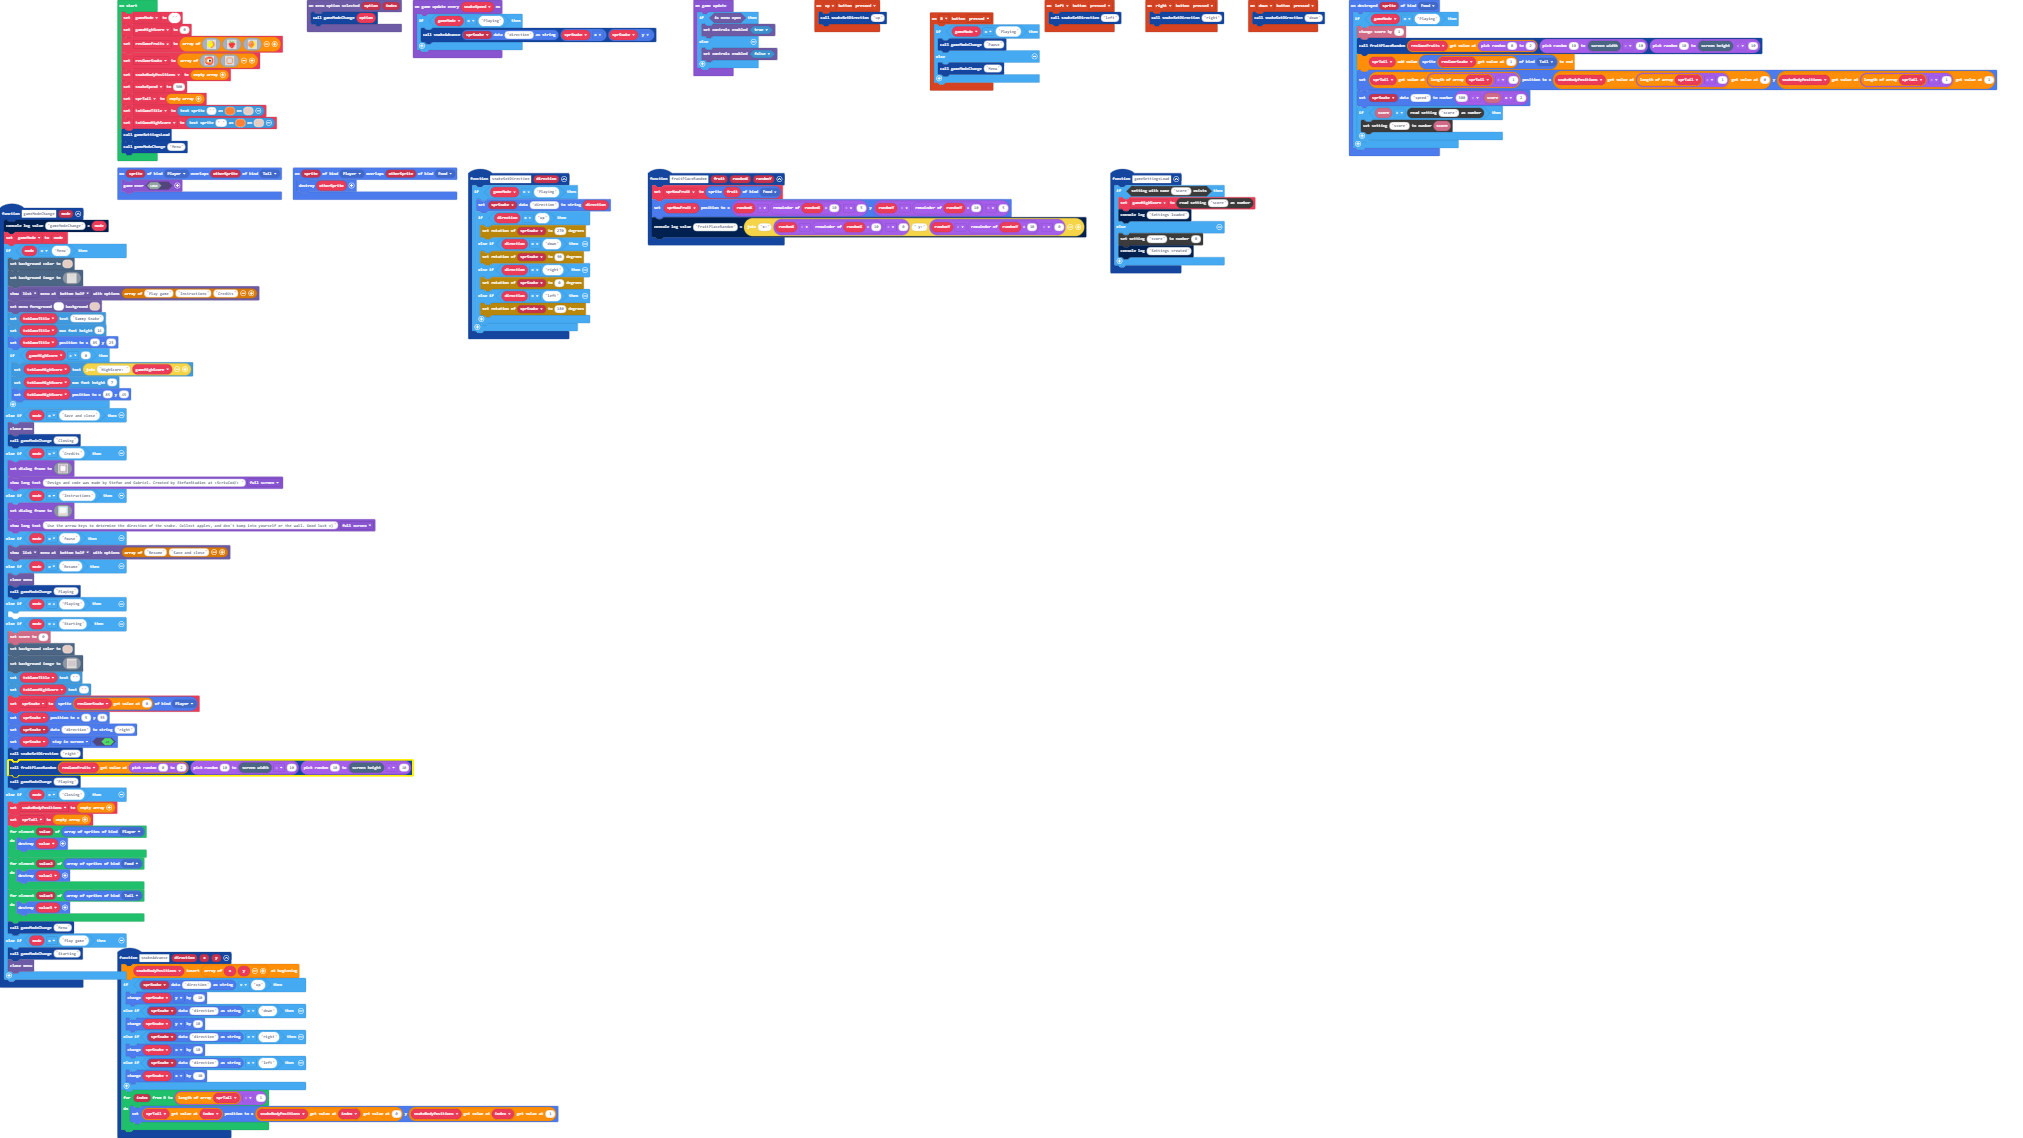
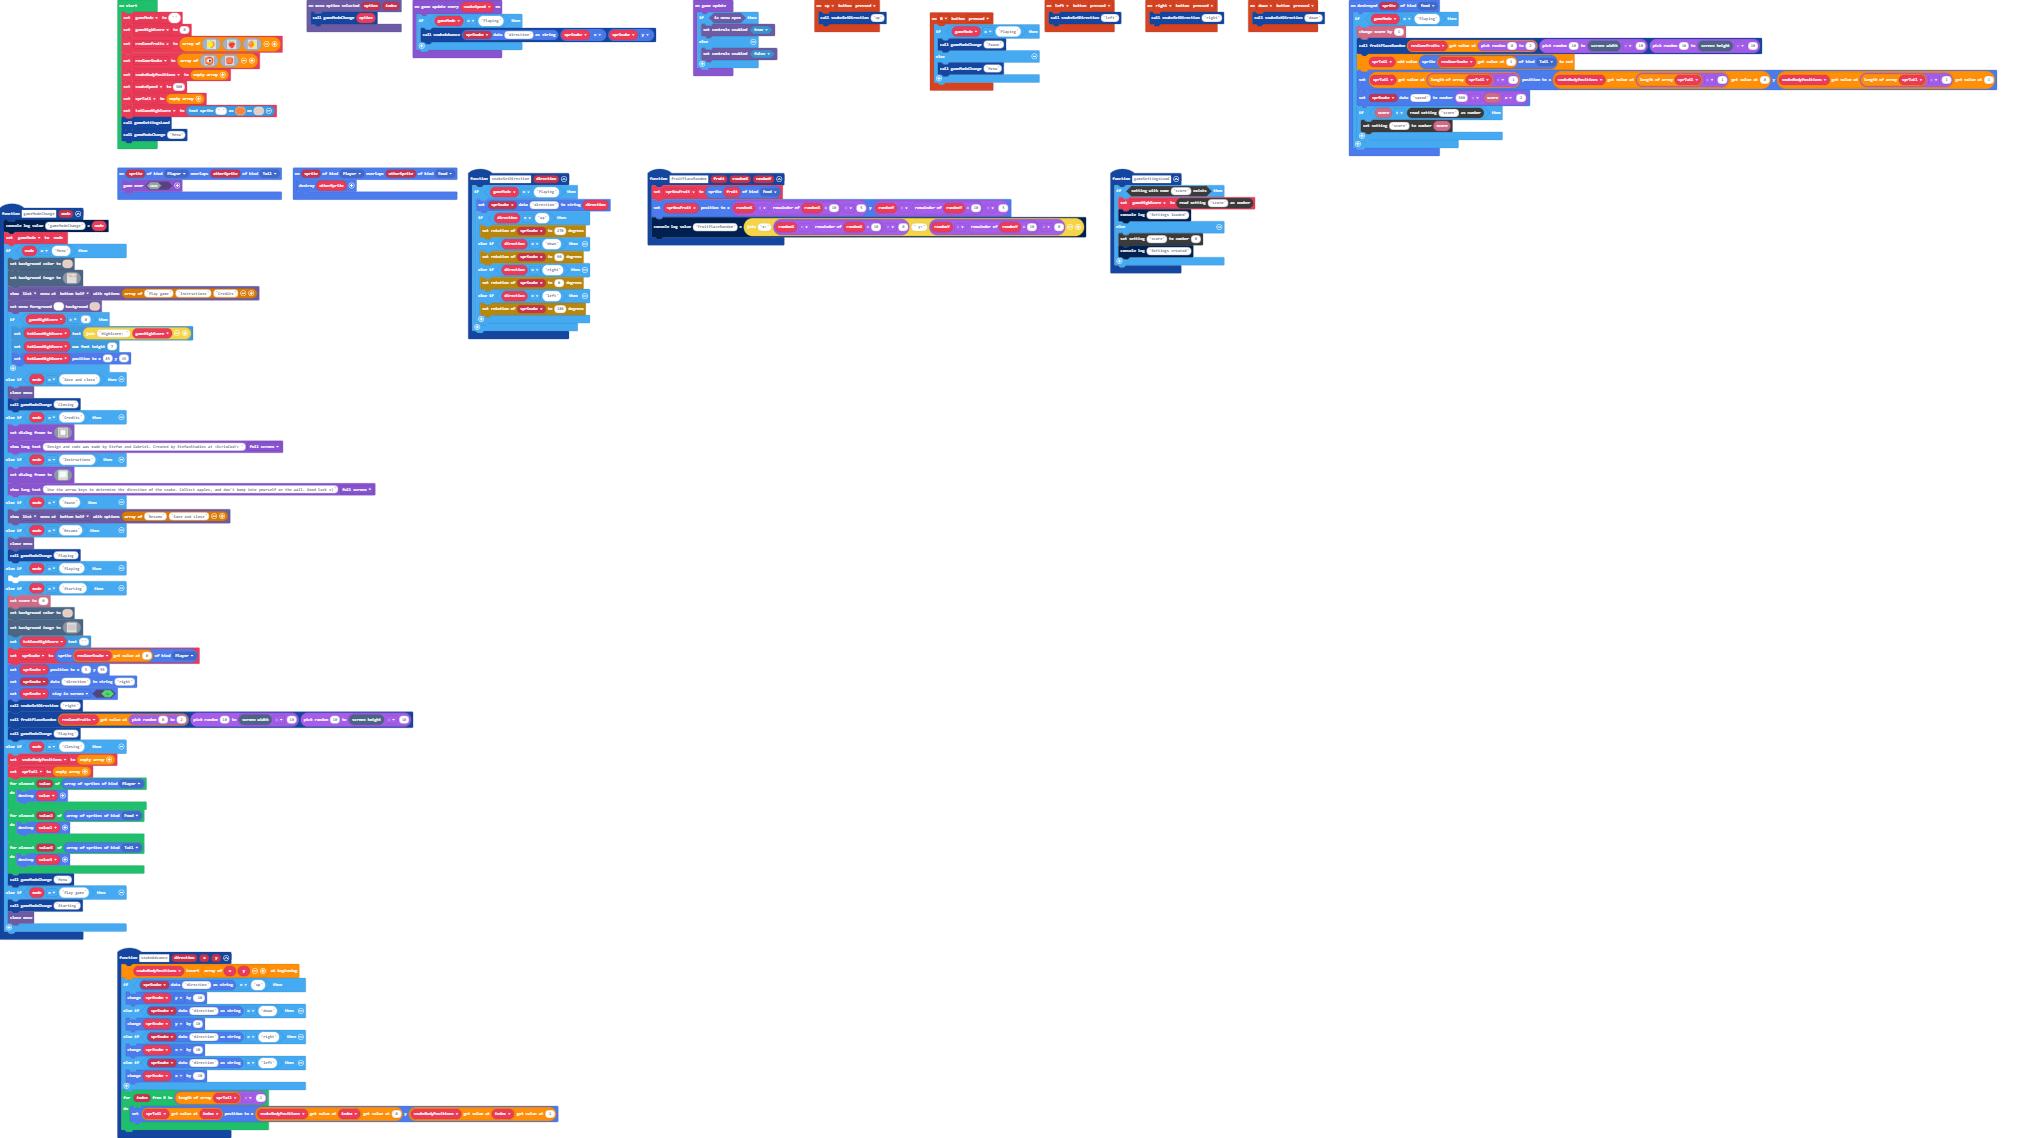
Made graphic better

Changed region(s): [[0.0, 0.2768, 0.218, 0.8919], [0.0623, 0.0923, 0.1557, 0.1538]]

diff --git a/main.ts b/main.ts
@@ -63,43 +63,43 @@ function gameModeChange (mode: string) {
     if (mode == "Menu") {
         scene.setBackgroundColor(13)
         scene.setBackgroundImage(img`
-            ................................................................................................................................................................
-            ................................................................................................................................................................
-            ................................................................................................................................................................
-            ................................................................................................................................................................
-            ................................................................................................................................................................
-            ............................................................................................................22222...............................................
-            ..........................................................................................................22444442..............................................
-            ..........................................44444...44444...44444...44444...44444...44444...44444...44444..2444444442.............................................
-            ..........................................4...4...4...4...4...4...4...4...4...4...4...4...4...4...4...4..4441111142.............................................
-            ..........................................4...4...4...4...4...4...4...4...4...4...4...4...4...4...4...4..44111ff142.............................................
-            ..........................................4...4...4...4...4...4...4...4...4...4...4...4...4...4...4...4..44111ff142.............................................
-            ..........................................4...4...4...4...4...4...4...4...4...4...4...4...4...4...4...4..4441111142.............................................
-            ..........................................44444...44444...44444...44444...44444...44444...44444...44444..2444444442.............................................
-            ..........................................................................................................22444442..............................................
-            ............................................................................................................22222...............................................
-            ................................................................................................................................................................
-            ................................................................................................................................................................
-            ................................................................................................................................................................
-            ................................................................................................................................................................
-            ................................................................................................................................................................
-            ................................................................................................................................................................
-            ................................................................................................................................................................
-            ................................................................................................................................................................
-            .........................................................................................................................................3......................
-            ................................................................................................................................................................
-            ................................................................................................................................................................
-            ................................................................................................................................................................
-            ................................................................................................................................................................
-            ................................................................................................................................................................
-            ................................................................................................................................................................
-            ................................................................................................................................................................
-            ................................................................................................................................................................
-            ................................................................................................................................................................
-            ................................................................................................................................................................
-            ................................................................................................................................................................
-            ................................................................................................................................................................
-            ................................................................................................................................................................
+            ..........................................................................................................................244442................................
+            ..........................................................................................................................244442................................
+            .......444444444444.......................................................................................................244442................................
+            ........444444444444......................................................................................................222222................................
+            .....4.4444444444444....44444444.....4444.....44....4444.....44....444.....444..................................................................................
+            .....444444444444444.....44444444...4..444...4444..4..444...4444..4..44...44444...........................................222222................................
+            .....44444444444444...4.4444444444..4.4444...4444..4.4444...4444..4.4444.444444...........................................244442................................
+            .....444444...........444444...444..4444444.44444..4444444.44444...44444444444............................................244442................................
+            .....44444444444444...444444444444..4444444444444..4444444444444....444444444.............................................244442................................
+            .....444444444444444..444444444444..4444444444444..4444444444444.....4444444..............................................222222................................
+            ......44444444444444..444444444444..4444444444444..4444444444444......444444....................................................................................
+            .............4444444..444444...444..4444444444444..4444444444444......444444..............................................222222................................
+            ......44444444444444..444444...444..444444.4.4444..444444.4.4444......444444..............................................244442................................
+            .....444444444444444..444444...444..444444...4444..444444...4444......444444..............................................244442................................
+            .....444444444444444..444444...444..444444...4444..444444...4444......444444..............................................244442................................
+            .....44444444444444...444444...444..444444...4444..444444...4444......444444..............................................222222................................
+            ......444444444444.....4444.....4....4444.....44....4444.....44........4444.....................................................................................
+            ..........................................................................................................................22222.22222.22222.22222.22222.22222...
+            ..........................................................................................................................24442.24442.24442.24442.24442.24442...
+            .....................................444444444444.........................................................................24442.24442.24442.24442.24442.24442...
+            ......................................444444444444........................................................................24442.24442.24442.24442.24442.24442...
+            ...................................4.4444444444444...4444....44.....44444444.....4444....44...............................24442.24442.24442.24442.24442.24442...
+            ...................................444444444444444..4..444..4444.....44444444...4..444..4444...444444444..................22222.22222.22222.22222.22222.22222...
+            ...................................44444444444444...4.4444..4444..4.4444444444..4.4444.44444..4..44444444.......................................................
+            ...................................444444...........4444444.4444..444444...444..44444444444...4.44444444................................................222222..
+            ...................................44444444444444...444444444444..444444444444..4444444444....444444....................................................244442..
+            ...................................444444444444444..444444444444..444444444444..444444444.....4444444444................................................244442..
+            ....................................44444444444444..444444.44444..444444444444..4444444444....44444444444....................22222......................244442..
+            ...........................................4444444..444444..4444..444444...444..44444444444...4444444444....................24444422....................222222..
+            ....................................44444444444444..444444..4444..444444...444..444444444444..444444.......................2444444442.22222.22222.22222.........
+            ...................................444444444444444..444444..4444..444444...444..444444444444..4444444444...................2411111444.24442.24442.24442.222222..
+            ...................................444444444444444..444444..4444..444444...444..444444.44444..44444444444..................241ff11144.24442.24442.24442.244442..
+            ...................................44444444444444...444444..4444..444444...444..444444..4444..44444444444..................241ff11144.24442.24442.24442.244442..
+            ....................................444444444444.....4444....44....4444.....4....4444....44....444444444...................2411111444.24442.24442.24442.244442..
+            ...........................................................................................................................2444444442.22222.22222.22222.222222..
+            ............................................................................................................................24444422............................
+            .............................................................................................................................22222..............................
             ................................................................................................................................................................
             ................................................................................................................................................................
             ................................................................................................................................................................
@@ -186,9 +186,6 @@ function gameModeChange (mode: string) {
             `)
         blockMenu.showMenu(["Play game", "Instructions", "Credits"], MenuStyle.List, MenuLocation.BottomHalf)
         blockMenu.setColors(1, 13)
-        txtGameTitle.setText("Sammy Snake")
-        txtGameTitle.setMaxFontHeight(14)
-        txtGameTitle.setPosition(85, 25)
         if (gameHighScore > 0) {
             txtGameHighScore.setText("HighScore: " + gameHighScore)
             txtGameHighScore.setMaxFontHeight(7)
@@ -288,7 +285,6 @@ function gameModeChange (mode: string) {
         info.setScore(0)
         scene.setBackgroundColor(13)
         scene.setBackgroundImage(assets.image`game-grid`)
-        txtGameTitle.setText("")
         txtGameHighScore.setText("")
         sprSnake = sprites.create(resGamrSnake[0], SpriteKind.Player)
         sprSnake.setPosition(5, 55)
@@ -345,7 +341,6 @@ blockMenu.onMenuOptionSelected(function (option, index) {
 let sprNewFruit: Sprite = null
 let sprSnake: Sprite = null
 let txtGameHighScore: TextSprite = null
-let txtGameTitle: TextSprite = null
 let sprTail: Sprite[] = []
 let snakeBodyPositions: number[][] = []
 let resGamrSnake: Image[] = []
@@ -359,7 +354,6 @@ resGamrSnake = [assets.image`snake-head`, assets.image`snake-segment`]
 snakeBodyPositions = []
 let snakeSpeed = 300
 sprTail = []
-txtGameTitle = textsprite.create("", 13, 4)
 txtGameHighScore = textsprite.create(" ", 13, 4)
 gameSettingsLoad()
 gameModeChange("Menu")

diff --git a/images.g.ts b/images.g.ts
@@ -16,19 +16,6 @@ namespace myImages {
 . 2 2 4 4 4 4 4 2 . 
 . . . 2 2 2 2 2 . . 
 `;
-            case "image3":
-            case "snake-segment":return img`
-. . . . . . . . . . 
-. . 4 4 4 4 4 4 . . 
-. 4 . . . . . . 4 . 
-. 4 . . . . . . 4 . 
-. 4 . . . . . . 4 . 
-. 4 . . . . . . 4 . 
-. 4 . . . . . . 4 . 
-. 4 . . . . . . 4 . 
-. . 4 4 4 4 4 4 . . 
-. . . . . . . . . . 
-`;
             case "image38":
             case "fruit-lemon":return img`
 . . . . 7 . . . . . 
@@ -190,6 +177,19 @@ bbbbbbbbbbbbbbbbbbbbbbbbbbbbbbbbbbbbbbbbbbbbbbbbbbbbbbbbbbbbbbbbbbbbbbbbbbbbbbbb
 .........b.........b.........b.........b.........b.........b.........b.........b.........b.........b.........b.........b.........b.........b.........b.........b
 .........b.........b.........b.........b.........b.........b.........b.........b.........b.........b.........b.........b.........b.........b.........b.........b
 .........b.........b.........b.........b.........b.........b.........b.........b.........b.........b.........b.........b.........b.........b.........b.........b
+`;
+            case "image3":
+            case "snake-segment":return img`
+. . . . . . . . . . 
+. . 2 2 2 2 2 2 . . 
+. 2 4 4 4 4 4 4 2 . 
+. 2 4 4 4 4 4 4 2 . 
+. 2 4 4 4 4 4 4 2 . 
+. 2 4 4 4 4 4 4 2 . 
+. 2 4 4 4 4 4 4 2 . 
+. 2 4 4 4 4 4 4 2 . 
+. . 2 2 2 2 2 2 . . 
+. . . . . . . . . . 
 `;
         }
         return null;
